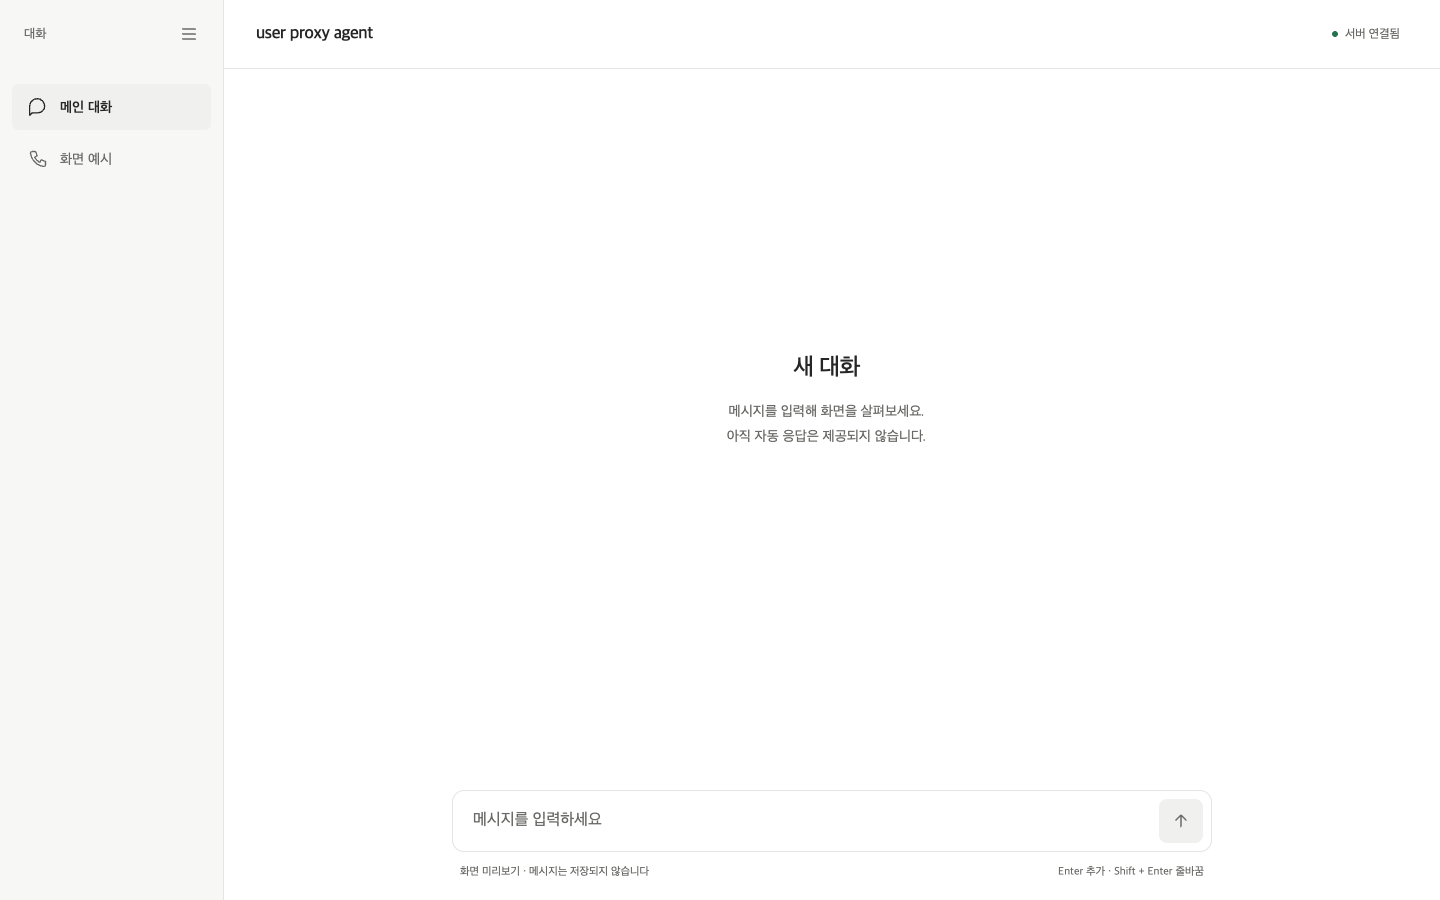
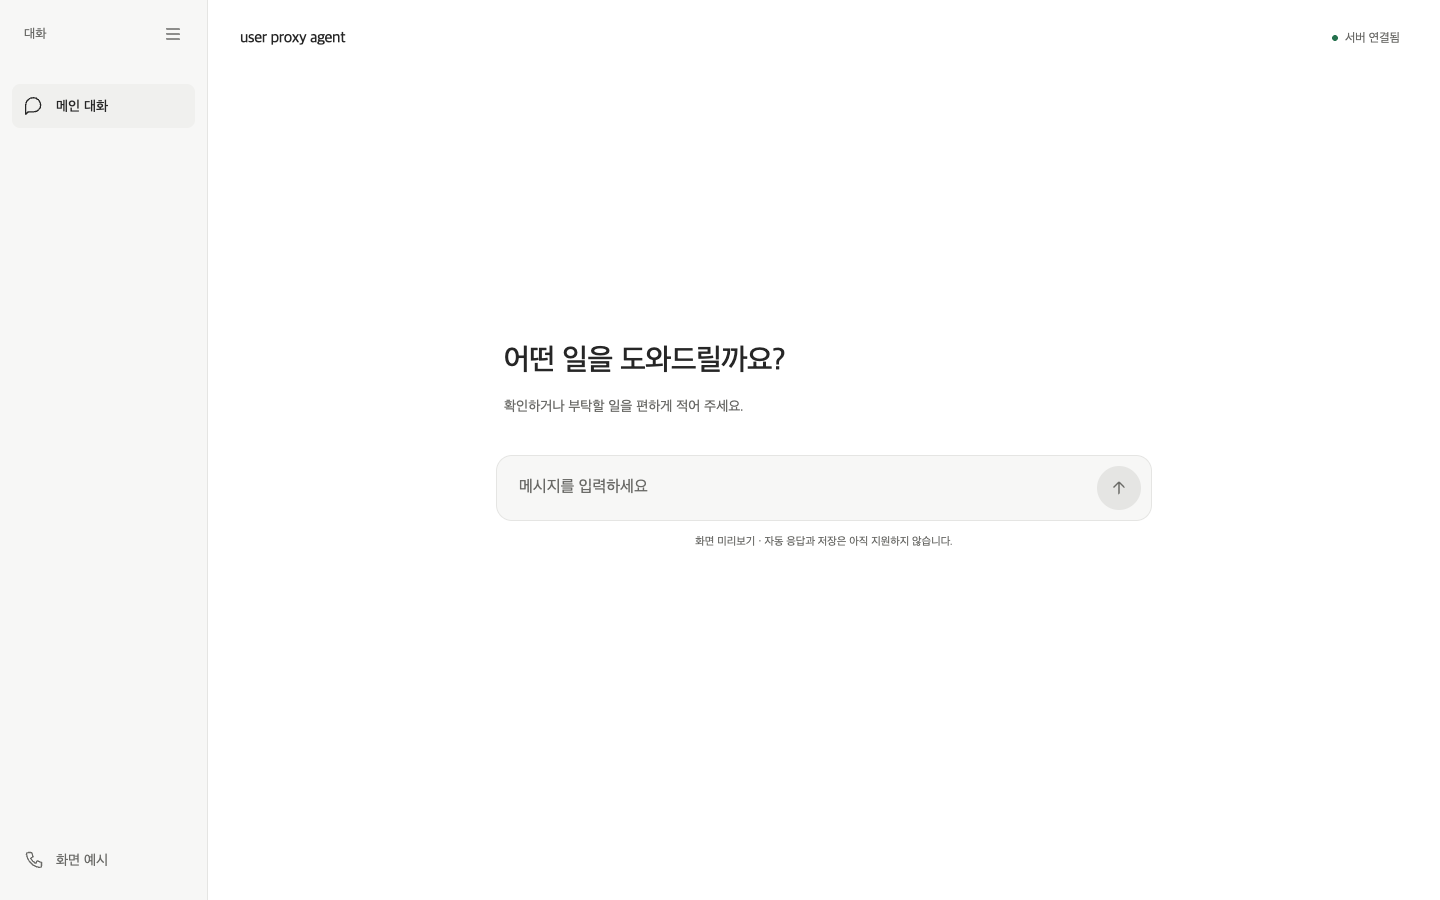
style: refine conversation flow and call controls

diff --git a/web/src/chat/chat.css b/web/src/chat/chat.css
@@ -1,9 +1,11 @@
-.app-shell { display: grid; grid-template-columns: 224px minmax(0, 1fr); height: 100dvh; }
+.app-shell { display: grid; grid-template-columns: 208px minmax(0, 1fr); height: 100dvh; }
 .sidebar { display: flex; flex-direction: column; padding: 12px; border-right: 1px solid var(--line); background: var(--canvas); }
+.sidebar nav { display: flex; flex: 1; flex-direction: column; }
+.sidebar .nav-item:last-child { margin-top: auto; }
 .sidebar-heading { display: flex; align-items: center; justify-content: space-between; min-height: 44px; margin: 0 0 28px; padding-left: 12px; font-size: 13px; color: var(--muted); }
-.nav-item { display: flex; align-items: center; gap: 12px; width: 100%; min-height: 46px; margin-bottom: 6px; padding: 12px 16px; border: 0; border-radius: 6px; background: transparent; color: var(--muted); text-align: left; font-size: 14px; white-space: nowrap; }
+.nav-item { display: flex; align-items: center; gap: 12px; width: 100%; min-height: 44px; margin-bottom: 6px; padding: 12px; border: 0; border-radius: 8px; background: transparent; color: var(--muted); text-align: left; font-size: 14px; white-space: nowrap; }
 .nav-item:hover { background: var(--soft); }
-.nav-item.selected { background: var(--soft); color: var(--ink); font-weight: 600; }
+.nav-item.selected { background: var(--soft); color: var(--ink); font-weight: 500; }
 .nav-collapse { display: grid; place-items: center; width: 44px; min-height: 44px; border-radius: 6px; border: 0; background: none; color: var(--muted); font-size: 13px; }
 .nav-collapse:hover { background: var(--soft); }
 .nav-collapse span { display: none; }
@@ -12,41 +14,51 @@
 .nav-collapsed .sidebar-heading > span, .nav-collapsed .nav-item span { display: none; }
 .nav-collapsed .nav-item { justify-content: center; padding-inline: 12px; }
 .chat-main { display: flex; flex-direction: column; min-width: 0; min-height: 0; background: var(--surface); }
-.chat-header { display: flex; align-items: center; justify-content: space-between; gap: 12px; flex-shrink: 0; padding: 12px 32px; border-bottom: 1px solid var(--line); }
+.chat-header { display: flex; align-items: center; justify-content: space-between; gap: 12px; flex-shrink: 0; padding: 16px 32px; }
 .assistant-heading { display: flex; align-items: center; gap: 12px; min-width: 0; }
-.assistant-heading h1 { font-size: 17px; font-weight: 600; letter-spacing: -.02em; white-space: nowrap; margin: 0; }
+.assistant-heading h1 { font-size: 16px; font-weight: 500; letter-spacing: -.025em; white-space: nowrap; margin: 0; }
 .connection-status { display: flex; align-items: center; gap: 7px; min-height: 44px; padding: 8px; border: 0; border-radius: 6px; background: none; color: var(--muted); font-size: 12px; white-space: nowrap; }
 .connection-status:hover { background: var(--canvas); }
 .status-dot { width: 6px; height: 6px; border-radius: 50%; background: currentColor; }
 .connection-status.connected .status-dot { color: var(--positive); }
 .connection-status.error { color: var(--error); }
+.chat-workspace { display: flex; flex-direction: column; flex: 1; min-height: 0; }
 .conversation-scroll { flex: 1; min-height: 0; overflow-y: auto; overscroll-behavior: contain; scrollbar-gutter: stable; scrollbar-color: #cececa transparent; scrollbar-width: thin; }
-.conversation { width: 100%; max-width: 808px; min-height: 100%; margin: 0 auto; padding: 32px 24px 24px; }
-.conversation.is-empty { display: flex; flex-direction: column; justify-content: center; }
-.empty-chat { padding: 20px 0 60px; text-align: center; }
-.empty-chat h2 { margin: 0 0 12px; font-size: 24px; line-height: 1.4; font-weight: 500; letter-spacing: -.02em; word-break: keep-all; }
-.empty-chat p { color: var(--muted); font-size: 14px; line-height: 1.8; }
-.messages { margin: 0; padding: 0; list-style: none; display: flex; flex-direction: column; gap: 28px; }
-.message { max-width: 88%; align-self: flex-start; min-width: 0; }
-.message.user { align-self: flex-end; }
+.conversation { width: 100%; max-width: 792px; min-height: 100%; margin: 0 auto; padding: 24px 24px 32px; }
+.is-start { justify-content: center; padding-bottom: clamp(24px, 10dvh, 100px); }
+.is-start .conversation-scroll { flex: 0 1 auto; scrollbar-gutter: auto; }
+.conversation.is-empty { min-height: 0; max-width: 704px; padding-bottom: 24px; }
+.is-start .composer-dock { max-width: 704px; }
+.empty-chat { text-align: left; padding: 0 8px; }
+.empty-chat h2 { margin: 0 0 12px; font-size: clamp(24px, 2.5vw, 30px); line-height: 1.4; font-weight: 500; letter-spacing: -.02em; word-break: keep-all; }
+.empty-chat p { margin: 0; color: var(--muted); font-size: 14px; line-height: 1.8; }
+.messages { margin: 0; padding: 0; list-style: none; display: flex; flex-direction: column; gap: 32px; }
+.message { max-width: 92%; align-self: flex-start; min-width: 0; }
+.message.user { align-self: flex-end; max-width: 85%; }
 .message-author { display: block; margin: 0 0 8px; font-size: 12px; color: var(--muted); }
-.user .message-author { text-align: right; }
-.message-bubble { padding: 0; font-size: 16px; line-height: 1.65; white-space: pre-wrap; overflow-wrap: anywhere; }
-.user .message-bubble { padding: 12px 16px; background: var(--soft); color: var(--ink); border-radius: 12px; }
+.user .message-author { position: absolute; width: 1px; height: 1px; overflow: hidden; clip-path: inset(50%); white-space: nowrap; }
+.message-bubble { padding: 0; font-size: 16px; line-height: 1.8; white-space: pre-wrap; overflow-wrap: anywhere; }
+.user .message-bubble { padding: 10px 16px; background: var(--soft); color: var(--ink); border-radius: 16px; }
 .notice .message-bubble { font-size: 13px; color: var(--muted); background: transparent; }
-.composer-dock { width: 100%; max-width: 808px; margin: 0 auto; flex-shrink: 0; padding: 12px 24px max(20px, env(safe-area-inset-bottom)); }
-.composer { padding: 8px; border: 1px solid var(--line); background: var(--surface); border-radius: 12px; }
-.composer:focus-within { border-color: color-mix(in srgb, var(--accent) 65%, var(--surface)); }
+.composer-dock { width: 100%; max-width: 792px; margin: 0 auto; flex-shrink: 0; padding: 12px 24px max(20px, env(safe-area-inset-bottom)); }
+.composer { padding: 10px; border: 1px solid var(--line); background: var(--canvas); border-radius: 16px; }
+.composer:focus-within { border-color: #92928c; background: var(--surface); }
 .composer-row { display: flex; align-items: flex-end; gap: 8px; }
 .composer textarea { flex: 1; width: 100%; min-width: 0; min-height: 44px; max-height: 144px; resize: none; padding: 10px 12px; border: 0; border-radius: 12px; color: var(--ink); background: transparent; font-size: 16px; line-height: 24px; }
 .composer textarea::placeholder { color: var(--muted); }
-.composer textarea:focus-visible { outline-offset: -2px; outline-width: 2px; }
-.send-button { display: grid; place-items: center; width: 44px; height: 44px; flex-shrink: 0; border: 0; border-radius: 8px; background: var(--ink); color: var(--surface); }
-.send-button:disabled { background: var(--soft); color: var(--muted); opacity: 1; }
-.composer-note { display: flex; justify-content: space-between; gap: 12px; margin: 12px 8px 0; color: var(--muted); font-size: 11px; line-height: 1.5; }
+.composer textarea:focus-visible { outline: none; }
+.send-button { display: grid; place-items: center; width: 44px; height: 44px; flex-shrink: 0; border: 0; border-radius: 50%; background: var(--ink); color: var(--surface); }
+.send-button:hover:enabled { background: #474744; }
+.send-button:active:enabled { transform: scale(.96); }
+.send-button:disabled { background: var(--line); color: var(--muted); opacity: 1; }
+.composer-note { display: flex; justify-content: space-between; gap: 12px; margin: 12px 4px 0; color: var(--muted); font-size: 11px; line-height: 1.6; }
+.composer-note p { margin: 0; }
+.composer-note > span { white-space: nowrap; }
+.is-start .composer-note { justify-content: center; text-align: center; }
+.is-start .composer-note > span { display: none; }
 .composer-target { display: flex; align-items: center; justify-content: space-between; padding-left: 12px; font-size: 13px; color: var(--accent); border-bottom: 1px solid var(--line); margin-bottom: 6px; }
 .composer-target button { display: grid; place-items: center; width: 44px; height: 44px; background: none; border: 0; color: var(--muted); }
-.preview-banner { flex-shrink: 0; padding: 10px 24px; text-align: center; font-size: 12px; color: var(--muted); background: var(--canvas); border-bottom: 1px solid var(--line); }
+.preview-banner { margin: 0 auto 0 0; font-size: 12px; line-height: 1.7; color: var(--muted); }
 .mobile-menu-button { display: none; }
 .mobile-menu { border: 1px solid var(--line); border-radius: 0; margin: 0; padding: 24px 16px; width: min(300px, 90vw); height: 100dvh; max-height: 100dvh; color: var(--ink); }
 .mobile-menu::backdrop { background: #26262655; }
@@ -62,18 +74,20 @@
   .connection-status { font-size: 11px; padding-inline: 4px; }
   .conversation { padding: 28px 16px 16px; }
   .composer-dock { padding: 10px 12px max(12px, env(safe-area-inset-bottom)); }
-  .composer-note { justify-content: center; font-size: 10px; }
+  .composer-note { justify-content: center; text-align: center; font-size: 11px; }
   .composer-note span { display: none; }
-  .empty-chat { padding: 10px 4px 36px; }
-  .message { max-width: 94%; }
+  .empty-chat { padding: 0 4px; }
+  .conversation.is-empty { padding: 16px 20px 20px; }
+  .is-start { padding-bottom: clamp(16px, 7dvh, 56px); }
+  .message, .message.user { max-width: 94%; }
 }
-.preview-tools { display: flex; align-items: center; flex-wrap: wrap; gap: 8px 12px; padding-bottom: 28px; color: var(--muted); font-size: 12px; }
-.preview-tools select { min-height: 44px; max-width: 100%; padding: 8px 30px 8px 12px; border: 1px solid var(--line); border-radius: 6px; background: var(--surface); color: var(--ink); font-size: 13px; }
+.preview-tools { display: flex; align-items: center; flex-wrap: wrap; gap: 8px 16px; padding-bottom: 24px; margin-bottom: 24px; border-bottom: 1px solid var(--line); color: var(--muted); font-size: 12px; }
+.preview-tools select { min-height: 44px; max-width: 100%; padding: 8px 28px 8px 12px; border: 0; border-radius: 6px; background: var(--surface); color: var(--ink); font-size: 13px; }
 .preview-tools button { min-height: 44px; padding: 10px 14px; color: var(--ink); border: 1px solid var(--line); border-radius: 6px; background: var(--canvas); }
-.call-card { margin: 24px 0 28px; padding: 24px; border: 1px solid var(--line); border-radius: 12px; background: var(--surface); }
+.call-card { margin: 20px 0 28px; padding: 24px; border: 1px solid var(--line); border-radius: 12px; background: var(--surface); }
 .call-purpose { display: flex; align-items: flex-start; justify-content: space-between; flex-wrap: wrap; gap: 10px; }
-.call-purpose h2 { margin: 0; font-size: 17px; font-weight: 600; letter-spacing: -.02em; line-height: 1.5; word-break: keep-all; }
-.task-status { flex-shrink: 0; padding: 5px 10px; border-radius: 4px; font-size: 11px; background: var(--soft); color: var(--muted); }
+.call-purpose h2 { margin: 0; font-size: 16px; font-weight: 600; letter-spacing: -.02em; line-height: 1.5; word-break: keep-all; }
+.task-status { flex-shrink: 0; padding: 4px 8px; border-radius: 4px; font-size: 11px; background: var(--soft); color: var(--muted); }
 .task-succeeded { color: var(--positive); background: color-mix(in srgb, var(--positive) 8%, var(--surface)); }
 .task-needs_input { color: var(--ink); border: 1px solid var(--line); }
 .call-line { display: flex; gap: 12px; flex-wrap: wrap; align-items: center; margin-top: 12px; font-size: 13px; color: var(--muted); }
@@ -83,15 +97,18 @@
 .call-connected .call-status i { background: var(--positive); }
 .call-failed .call-status { color: var(--error); }
 .call-failed .call-status i { background: var(--error); }
-.call-summary { margin: 20px 0; color: var(--muted); font-size: 14px; line-height: 1.75; word-break: keep-all; overflow-wrap: anywhere; }
+.call-summary { margin: 16px 0 20px; color: var(--muted); font-size: 14px; line-height: 1.75; word-break: keep-all; overflow-wrap: anywhere; }
 .call-actions { display: flex; flex-wrap: wrap; gap: 8px; }
-.call-actions button { display: flex; align-items: center; justify-content: center; gap: 8px; min-height: 44px; padding: 10px 14px; border: 1px solid var(--line); border-radius: 6px; background: var(--surface); font-size: 13px; }
+.call-actions button { display: flex; align-items: center; justify-content: center; gap: 8px; min-height: 44px; padding: 10px 14px; border: 1px solid var(--line); border-radius: 8px; background: var(--surface); font-size: 13px; }
+.call-actions button:first-child { background: var(--soft); border-color: transparent; }
 .call-actions button:hover:enabled { background: var(--canvas); }
-.call-actions button[aria-pressed=true] { color: var(--accent); background: color-mix(in srgb, var(--accent) 7%, var(--surface)); border-color: var(--accent); }
-.call-actions .end-call { color: var(--error); margin-left: auto; border-color: color-mix(in srgb, var(--error) 25%, var(--surface)); }
+.call-actions button:first-child[aria-pressed=true] { color: var(--accent); background: color-mix(in srgb, var(--accent) 7%, var(--surface)); border-color: var(--accent); }
+.call-actions .end-call { color: var(--error); margin-left: auto; border-color: transparent; }
+.call-actions .end-call:hover:enabled { background: color-mix(in srgb, var(--error) 6%, var(--surface)); }
 .stop-square { width: 10px; height: 10px; border-radius: 2px; background: currentColor; }
 .audio-note { margin: 12px 0 18px; color: var(--muted); font-size: 11px; }
-.transcript-toggle { display: flex; justify-content: space-between; align-items: center; width: 100%; min-height: 44px; padding: 12px 0 0; border: 0; border-top: 1px solid var(--line); background: none; font-size: 13px; }
+.transcript-toggle { display: flex; justify-content: space-between; align-items: center; width: 100%; min-height: 44px; padding: 12px 0; border: 0; border-top: 1px solid var(--line); background: none; font-size: 13px; }
+.transcript-toggle:hover { color: var(--muted); }
 .transcript-toggle[aria-expanded=true] svg { transform: rotate(90deg); }
 .transcript { padding-top: 12px; }
 .transcript-note { color: var(--muted); font-size: 11px; margin: 8px 0 20px; }
@@ -101,11 +118,20 @@
 .transcript-line p, .transcript-empty { font-size: 14px; line-height: 1.7; margin: 0; overflow-wrap: anywhere; }
 .transcript-line.partial p, .transcript-empty { color: var(--muted); }
 @media (max-width: 767px) {
-  .call-card { padding: 18px 16px; }
-  .call-purpose h2 { font-size: 17px; }
+  .call-card { padding: 20px 16px 8px; }
+  .call-purpose h2 { font-size: 16px; }
   .call-actions { gap: 6px; }
   .call-actions button { gap: 5px; padding-inline: 10px; font-size: 12px; flex: 1 1 auto; }
   .call-actions button svg { width: 16px; }
   .call-actions .end-call { margin-left: 0; }
   .transcript-line { grid-template-columns: 70px minmax(0, 1fr); gap: 8px; }
+}
+
+@media (prefers-reduced-motion: no-preference) {
+  .composer, .send-button, .nav-item, .call-actions button { transition: background-color 140ms ease-out, border-color 140ms ease-out; }
+}
+@media (max-height: 500px) {
+  .is-start { padding-bottom: 0; }
+  .conversation.is-empty { padding-top: 12px; padding-bottom: 12px; }
+  .empty-chat h2 { font-size: 24px; margin-bottom: 8px; }
 }

diff --git a/web/src/chat/ChatView.tsx b/web/src/chat/ChatView.tsx
@@ -22,6 +22,7 @@ export default function ChatView({ messages, preview, onNavigate, composer, chil
   const previous = useRef({ preview, count: messages.length })
   const [menuOpen, setMenuOpen] = useState(false)
   const [collapsed, setCollapsed] = useState(false)
+  const isEmpty = messages.length === 0 && !preview
   useEffect(() => {
     if (previous.current.preview !== preview) scroller.current?.scrollTo(0, 0)
     else if (messages.length > previous.current.count) bottom.current?.scrollIntoView({ block: 'nearest' })
@@ -54,19 +55,20 @@ export default function ChatView({ messages, preview, onNavigate, composer, chil
         </div>
         <ConnectionStatus />
       </header>
-      {preview && <div className="preview-banner">예시 데이터 · 실제 전화가 연결되지 않습니다</div>}
-      <div className="conversation-scroll" ref={scroller}>
-        <div className={`conversation ${messages.length === 0 && !preview ? 'is-empty' : ''}`}>
-          {messages.length === 0 && !preview && <div className="empty-chat">
-            <h2>새 대화</h2>
-            <p>메시지를 입력해 화면을 살펴보세요.<br />아직 자동 응답은 제공되지 않습니다.</p>
-          </div>}
-          {children}
-          <MessageList messages={messages} />
-          <div ref={bottom} />
+      <div className={`chat-workspace ${isEmpty ? 'is-start' : ''}`}>
+        <div className="conversation-scroll" ref={scroller}>
+          <div className={`conversation ${isEmpty ? 'is-empty' : ''}`}>
+            {isEmpty && <div className="empty-chat">
+              <h2>어떤 일을 도와드릴까요?</h2>
+              <p>확인하거나 부탁할 일을 편하게 적어 주세요.</p>
+            </div>}
+            {children}
+            <MessageList messages={messages} />
+            <div ref={bottom} />
+          </div>
         </div>
+        {composer}
       </div>
-      {composer}
     </main>
   </div>
 }

diff --git a/web/e2e/chat.spec.ts b/web/e2e/chat.spec.ts
@@ -40,6 +40,29 @@ test('does not submit Korean text while IME composition is active', async ({ pag
   await expect(page.getByRole('listitem')).toHaveCount(1)
 })
 
+for (const [width, height] of [[1440, 900], [390, 844], [320, 420]]) {
+  test(`starting a conversation keeps input close and preserves focus at ${width}x${height}`, async ({ page }) => {
+    await page.setViewportSize({ width, height })
+    await page.goto('/')
+    const input = page.getByRole('textbox', { name: '메시지' })
+    await expect(input).toBeInViewport({ ratio: 1 })
+    const gap = await page.evaluate(() => {
+      const intro = document.querySelector('.empty-chat')!.getBoundingClientRect()
+      const composer = document.querySelector('.composer')!.getBoundingClientRect()
+      return composer.top - intro.bottom
+    })
+    expect(gap).toBeGreaterThanOrEqual(0)
+    expect(gap).toBeLessThanOrEqual(56)
+    await input.fill('병원 진료 시간을 확인해 줘')
+    await input.press('Enter')
+    await expect(input).toBeFocused()
+    await expect(input).toBeInViewport({ ratio: 1 })
+    await expect(page.getByText('병원 진료 시간을 확인해 줘', { exact: true })).toBeInViewport({ ratio: 1 })
+    const bottomGap = await input.evaluate(element => innerHeight - element.getBoundingClientRect().bottom)
+    expect(bottomGap).toBeLessThan(120)
+  })
+}
+
 test('health failure and retry do not discard a draft', async ({ page }) => {
   await page.route('**/api/health', route => route.fulfill({ status: 503, body: 'unavailable' }))
   await page.goto('/')

diff --git a/web/src/App.tsx b/web/src/App.tsx
@@ -53,7 +53,8 @@ export default function App() {
     targetLabel={target ? call.subject : undefined} onClearTarget={() => { setTarget(false); input.current?.focus() }} onSubmit={submit} />}>
     {preview && <>
       <div className="preview-tools">
-        <label htmlFor="preview-state">통화 예시 상태</label>
+        <p className="preview-banner">예시 데이터 · 실제 전화가 연결되지 않습니다</p>
+        <label className="sr-only" htmlFor="preview-state">통화 예시 상태</label>
         <select id="preview-state" value={example} onChange={event => changeExample(event.target.value as PreviewId)}>
           {previewOptions.map(option => <option key={option.id} value={option.id}>{option.label}</option>)}
         </select>

diff --git a/web/src/chat/Composer.tsx b/web/src/chat/Composer.tsx
@@ -41,6 +41,6 @@ export default function Composer({ value, onChange, onSubmit, inputRef, targetLa
         <button className="send-button" type="submit" aria-label="메시지 추가" title="메시지 추가" disabled={!value.trim()}><Icon name="arrow" /></button>
       </div>
     </form>
-    <p className="composer-note">화면 미리보기 · 메시지는 저장되지 않습니다<span>Enter 추가 · Shift + Enter 줄바꿈</span></p>
+    <div className="composer-note"><p>화면 미리보기 · 자동 응답과 저장은 아직 지원하지 않습니다.</p><span>Shift + Enter로 줄바꿈</span></div>
   </div>
 }

diff --git a/README.md b/README.md
@@ -40,6 +40,7 @@ API 키나 기존 프로젝트의 가상환경은 필요하지 않다.
 화면을 열거나 우측 상단 서버 상태 버튼을 누를 때 요청한다. 주기적인 자동 감시는 하지 않는다.
 
 메인 대화에서는 텍스트를 입력하고 Enter 또는 화살표 버튼으로 화면에 메시지를 추가한다.
+첫 화면은 안내와 입력창을 함께 보여 주고, 대화가 시작되면 입력창을 하단에 유지한다.
 Shift+Enter는 줄바꿈이며 한글 조합 중 Enter로는 추가하지 않는다.
 ‘화면 예시’에서는 6가지 통화 상태, 내역 펼침, 듣기 전환, 추가 지시, 통화 종료를 살펴볼 수 있다.
 종료 버튼은 ‘종료 확인 중’으로 바꾸고, 예시 도구의 ‘종료 확인’을 눌러야 종료 상태가 된다.
@@ -103,7 +104,7 @@ npm run test:e2e
 
 이미 설치된 Google Chrome을 사용하려면 브라우저 설치 대신
 `PLAYWRIGHT_CHANNEL=chrome npm run test:e2e`로 실행한다. 이번 검증은 이 방식으로 진행했다.
-E2E 14개는 5193 포트에 독립 웹 서버를 띄운 뒤 정리하며 포트가 점유되어 있으면 실패한다.
+E2E 17개는 5193 포트에 독립 웹 서버를 띄운 뒤 정리하며 포트가 점유되어 있으면 실패한다.
 health 응답은 E2E에서 제어하고, 실제 서버 오류·복구는 별도 통합 검증으로 확인했다.
 스크린샷과 실패 시 trace는 `web/test-results/`에 생성한다. 이 경로는 커밋에서 제외한다.
 

diff --git a/docs/roadmap.md b/docs/roadmap.md
@@ -30,6 +30,7 @@
 
 메신저형 채팅과 통화 카드 예시를 구현했다. 기존 11개 테스트와 신규 브라우저 14개,
 정적 검사·빌드·실제 서버 연결 오류/복구·4가지 화면 크기 검증을 완료했다.
+후속 UI/UX 수정에서 시작 화면–대화 전환 검증 3개를 추가해 현재 브라우저 테스트는 17개다.
 1단계 결과는 [완료 기록](superpowers/plans/2026-09-25-step-01-foundation.md)과 루트 README에 있다.
 
 ## 단계 검증 기록 방식
